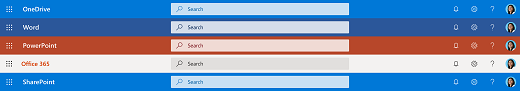
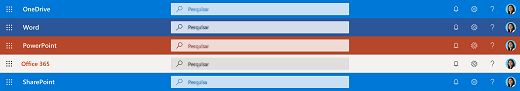
commit translated contents

diff --git a/MicrosoftSearch/security.md b/MicrosoftSearch/security.md
@@ -15,12 +15,12 @@ search.appverid:
 ms.assetid: 50461cb9-8707-46c1-935a-1b9608a98800
 ROBOTS: NOINDEX
 description: Proteja seus dados corporativos e dos usuários, além de fornecer informações aos usuários autorizados com a Pesquisa da Microsoft
-ms.openlocfilehash: 4e5e23e5e1389c95d28ede66e06707f9856a3770
-ms.sourcegitcommit: fe7f3dae4edba97071a4d127e8a27bdf4fa00d81
+ms.openlocfilehash: 72f45097ebdc97a03d6016d4cac9a19327c68f30
+ms.sourcegitcommit: a7ca4c38d37fbdec58e002e42d865188939d0483
 ms.translationtype: HT
 ms.contentlocale: pt-BR
-ms.lasthandoff: 06/05/2019
-ms.locfileid: "34727930"
+ms.lasthandoff: 06/15/2019
+ms.locfileid: "35003106"
 ---
 # <a name="security-for-microsoft-search"></a>Segurança da Pesquisa da Microsoft
 
@@ -57,28 +57,17 @@ Como as pesquisas relacionadas ao trabalho podem ser confidenciais, a Pesquisa d
   
 Independentemente da consulta do usuário conter um ou mais resultados de trabalho na resposta retornada, as seguintes medidas são executadas:
   
-- Registro em Log
+- Registro em log
     
-  - Todos os logs de pesquisa referentes ao tráfego da Pesquisa da Microsoft têm as identidades removidas e são armazenados separadamente do tráfego público que não for da Pesquisa da Microsoft. Eles são mantidos por 18 meses e o acesso é restrito para fins de depuração de bugs.
-    
-  - As consultas nesses logs não são usadas para modelar ou treinar recursos públicos, como sugestão automática ou pesquisas relacionadas na web pública.
-    
-  - O acesso restrito é gerenciado por vários mecanismos seguros, incluindo os grupos de segurança e outras camadas no sistema de engenharia.
-    
-- Pesquisar o histórico
-    
-  - Ao fazer login com uma conta corporativa ou de estudante, o histórico de pesquisa de um usuário não estará disponível em outros computadores ou dispositivos.
+  - Todos os logs de pesquisa relacionados ao tráfego da Pesquisa da Microsoft são anonimizados. Eles são retidos por 18 meses.
+  - As consultas armazenadas nesses registros do sistema só serão usadas para modelar e treinar recursos públicos, como pesquisas de sugestão automática ou pesquisas relacionadas para resultados públicos da Web quando um conjunto de restrições e limites de frequência forem atendidos, o que nos dá confiança de que essas consultas são comuns e não específicas a uma organização particular. A consulta deve aparecer uma quantidade significativa de vezes para correlacionar dados de usuários não da Pesquisa da Microsoft, e a consulta não deve acionar exclusivamente os resultados da pesquisa corporativa. As consultas que não atenderem a esses requisitos serão armazenadas separadamente do tráfego público, não da Pesquisa da Microsoft.
+  - O acesso restrito é gerenciado através de vários mecanismos seguros, incluindo grupos de segurança e outras camadas dentro do sistema de engenharia.
     
 - Publicidade
     
   - As consultas de pesquisa corporativa nunca são compartilhadas com ou sugeridas para anunciantes.
-    
-  - Os logs de pesquisa de anúncios referentes à Pesquisa da Microsoft são armazenados separadamente do tráfego público.
-    
   - Os anúncios nunca são direcionados para um usuário com base na sua identidade de trabalho ou da organização.
     
 ## <a name="gdpr"></a>RGPD
 
 Em [21 de maio de 2018, a postagem do blog](https://blogs.microsoft.com/on-the-issues/2018/05/21/microsofts-commitment-to-gdpr-privacy-and-putting-customers-in-control-of-their-own-data/) da Microsoft reflete o nosso compromisso com a conformidade com o RGDP e como a Microsoft ajuda empresas e organizações a cumprir suas próprias obrigações de conformidade com o RGDP. Você pode encontrar detalhes adicionais nas [Perguntas Frequentes da Central de Confiabilidade](https://www.microsoft.com/en-us/trustcenter/privacy/gdpr/gdpr-faqs) da Microsoft. As consultas da Pesquisa da Microsoft que operam com base em dados de clientes organizacionais dentro dos Serviços Online também atenderão às obrigações do processador descritas no artigo 28, bem como refletidos nas [Perguntas Frequentes da Central de Confiabilidade](https://www.microsoft.com/en-us/trustcenter/privacy/gdpr/gdpr-faqs). Com relação às consultas da Pesquisa da Microsoft que forem feitas no Bing público, a Microsoft é uma controladora de dados e implementou medidas para remover a identificação das consultas, como descrito no RGPD.
-
-

diff --git a/MicrosoftSearch/overview-microsoft-search.md b/MicrosoftSearch/overview-microsoft-search.md
@@ -13,12 +13,12 @@ search.appverid:
 - MET150
 - MOE150
 description: Obtenha uma visão geral do que é o Microsoft Search, quais são seus benefícios e quais aplicativos possuem o Microsoft Search atualmente.
-ms.openlocfilehash: c60ece3778db4696437d8ed0c5cefd0bfaa39142
-ms.sourcegitcommit: 9345523f0143f613c702cd3dcc084b5f7bd6a0b5
+ms.openlocfilehash: d16066c941bb5c3619d7fd50e9cf33952216fb87
+ms.sourcegitcommit: a7ca4c38d37fbdec58e002e42d865188939d0483
 ms.translationtype: HT
 ms.contentlocale: pt-BR
-ms.lasthandoff: 06/07/2019
-ms.locfileid: "34767186"
+ms.lasthandoff: 06/15/2019
+ms.locfileid: "35003133"
 ---
 # <a name="overview-of-microsoft-search"></a>Visão geral da Pesquisa da Microsoft
 
@@ -147,12 +147,11 @@ Como as pesquisas relacionadas ao trabalho podem ser confidenciais, o Microsoft 
 
 Independentemente de uma consulta do usuário conter um ou mais resultados relacionados ao trabalho na resposta retornada, as seguintes medidas são tomadas:
 
-**Registro em log** - Todos os registros de pesquisa relacionados ao tráfego da Pesquisa da Microsoft são anonimizados e armazenados separadamente do tráfego público, sem Pesquisa da Microsoft. Esses registros são mantidos por 18 meses e o acesso a eles é restrito a apenas para fins de depuração. As consultas nesses logs não são usadas para modelar ou treinar recursos públicos, como sugestão automática ou pesquisas relacionadas na web pública. O acesso restrito é gerenciado por vários mecanismos seguros, incluindo os grupos de segurança e outras camadas no sistema de engenharia.
+**Registro em log** - Todos os logs de pesquisa relacionados ao tráfego da Pesquisa da Microsoft são anonimizados e retidos por 18 meses. As consultas armazenadas nesses registros do sistema só serão usadas para modelar e treinar recursos públicos, como pesquisas de sugestão automática ou pesquisas relacionadas para resultados públicos da Web quando um conjunto de restrições e limites de frequência forem atendidos, o que nos dá confiança de que essas consultas são comuns e não específicas a uma organização particular. A consulta deve aparecer uma quantidade significativa de vezes para correlacionar dados de usuários não da Pesquisa da Microsoft, e a consulta não deve acionar exclusivamente os resultados da pesquisa corporativa. As consultas que não atenderem a esses requisitos serão armazenadas separadamente do tráfego público, não da Pesquisa da Microsoft. O acesso restrito é gerenciado por vários mecanismos seguros, incluindo os grupos de segurança e outras camadas no sistema de engenharia.
 
 **Histórico de pesquisas** quando você faz logon com uma conta corporativa ou de estudante, o histórico de pesquisa do usuário não fica disponível em outros computadores ou dispositivos.
 
 **Publicidade** - as consultas de pesquisa corporativa nunca são compartilhadas ou sugeridas aos anunciantes.
-Os logs de pesquisa de anúncios referentes à Pesquisa da Microsoft são armazenados separadamente do tráfego público.
 Os anúncios nunca são direcionados para um usuário com base na sua identidade de trabalho ou da organização.
 
 ## <a name="see-also"></a>Confira também

diff --git a/MicrosoftSearch/setup-microsoft-search.md b/MicrosoftSearch/setup-microsoft-search.md
@@ -13,12 +13,12 @@ search.appverid:
 - MET150
 - MOE150
 description: Configurar a Pesquisa da Microsoft pela primeira vez.
-ms.openlocfilehash: 5b686d34375453fd98bdb0915ee49016e71da20d
-ms.sourcegitcommit: fe7f3dae4edba97071a4d127e8a27bdf4fa00d81
+ms.openlocfilehash: c95cc0d11d60e3d4d9a509dc691c01858ede7262
+ms.sourcegitcommit: 9df9b1a5f83c9fbe62900df183bee239a8ea6d91
 ms.translationtype: HT
 ms.contentlocale: pt-BR
-ms.lasthandoff: 06/05/2019
-ms.locfileid: "34728001"
+ms.lasthandoff: 06/14/2019
+ms.locfileid: "34947739"
 ---
 # <a name="set-up-microsoft-search"></a>Configurar a Pesquisa da Microsoft
 
@@ -32,7 +32,7 @@ A **Pesquisa da Microsoft** está ativada por padrão para todos os aplicativos 
 
 Você administra a **Pesquisa da Microsoft** a partir do **centro de administração do Microsoft 365**. Entre usando seu logon com credenciais de administrador e escolha o bloco **Administrador** na lista de aplicativos do Office 365 (Clique no ícone do **Inicializador de aplicativos** no canto superior esquerdo da lista de aplicativos). No **centro de administração do Microsoft 365**, selecione **Pesquisa da Microsoft** em **Configurações** no painel de navegação esquerdo. 
 
-**Observação:** Se você estiver vendo a**Pesquisa da Microsoft** em**Configurações** no**centro de administração do Microsoft 365**, habilite a opção **Experimente a visualização** no canto superior direito do centro de administração. 
+**Observação:** se você NÃO estiver vendo a **Pesquisa da Microsoft** sob **Configurações** no **Centro de administração do Microsoft 365**, ative a opção **Experimentar a visualização**, no canto superior direito do centro de administração. 
 
 Como administrador, você deve considerar algumas coisas que podem tornar a experiência da **Pesquisa da Microsoft** eficiente e amigável em sua organização.
 

diff --git a/MicrosoftSearch/plan-your-content.md b/MicrosoftSearch/plan-your-content.md
@@ -14,12 +14,12 @@ search.appverid:
 - MOE150
 ms.assetid: bb9d90b6-6c86-4b19-9235-3bd9b19826ab
 description: Forneça conteúdo de qualidade sem precisar de recursos adicionais quando usar a Pesquisa da Microsoft
-ms.openlocfilehash: 88c2af543be02f8e17937e36a81fd28d862e8fb0
-ms.sourcegitcommit: be2e837d9b087bffe6ce40d72d7ae58a8fcdf3fe
+ms.openlocfilehash: 90774f8606f5582338c12b4f123153b6f3f4de74
+ms.sourcegitcommit: 9df9b1a5f83c9fbe62900df183bee239a8ea6d91
 ms.translationtype: HT
 ms.contentlocale: pt-BR
-ms.lasthandoff: 05/30/2019
-ms.locfileid: "34591202"
+ms.lasthandoff: 06/14/2019
+ms.locfileid: "34947748"
 ---
 # <a name="plan-your-content"></a>Planejar o conteúdo
 
@@ -91,7 +91,7 @@ Depois de criar os indicadores e as P e R, é importante verificar se:
 
 Usuários e especialistas no assunto (SMEs) que contribuíram para a criação de conteúdo podem ajudar a testar e validar o resultado de pesquisa.
 
-## <a name="step-5-review-and-update-periodically"></a>Etapa 5: revise e atualize periodicamente
+## <a name="step-5-use-insights-to-review-and-update-periodically"></a>Etapa 5: use insights para revisar e atualizar periodicamente
 É importante que informações autoritativas, como Indicadores e P e R, estejam atualizadas. Regularmente:
 - Corrija ou remova URL desfeita ou inválida.
 - Remova Indicadores ou P e R que já não são relevantes.
